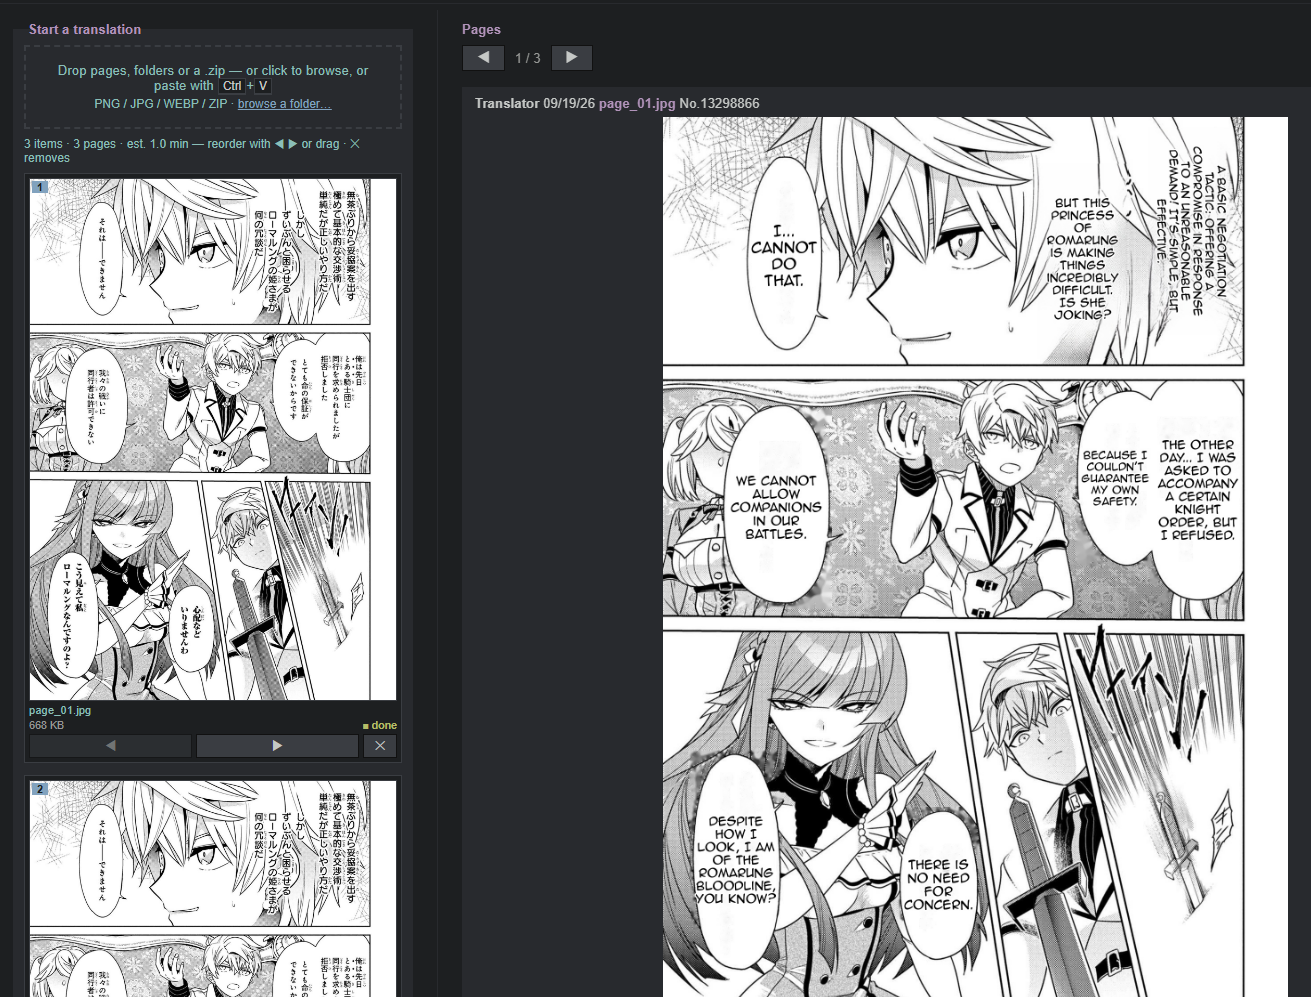
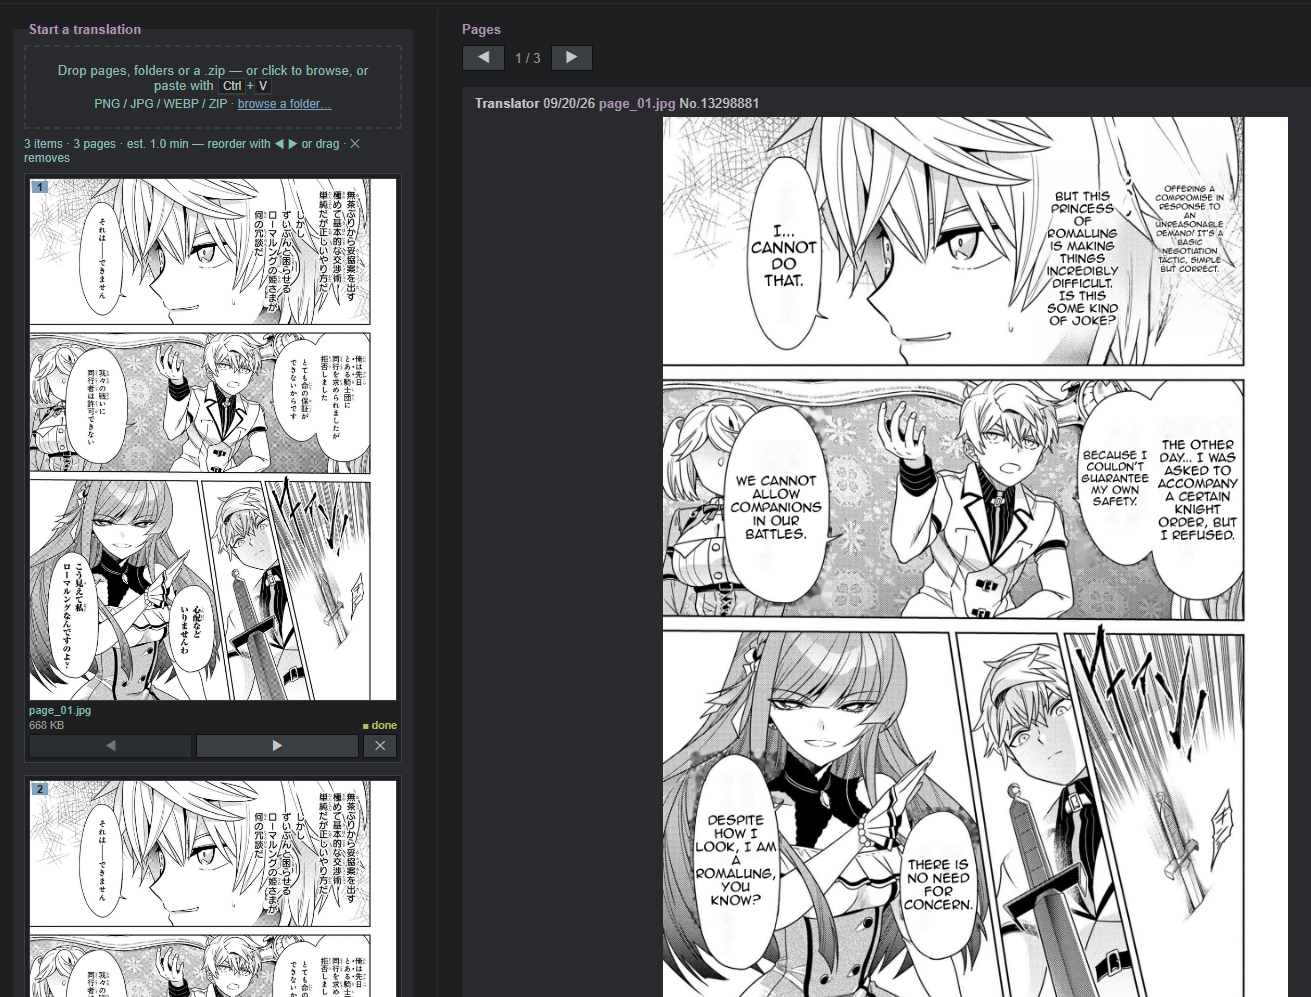
fix(lettering): rotate only truly vertical columns (h>=3w AND 25% size gain); refresh README results shot

Changed region(s): [[0.8848, 0.1555, 0.9458, 0.3109], [0.7933, 0.1866, 0.8543, 0.342], [0.5187, 0.8084, 0.6102, 0.9328]]

diff --git a/MangaTranslator.py b/MangaTranslator.py
@@ -394,13 +394,17 @@ class MangaTranslator:
         else:
             target_width_ratio = 0.82
 
-        # Extreme tall-and-narrow regions (h >= 2.5w) are usually vertical
-        # Japanese columns: laying English out horizontally there collapses
-        # into a tiny hyphenated word-stack. Instead lay the block out in the
+        # Extreme tall-and-narrow regions are usually vertical Japanese
+        # columns: laying English out horizontally there collapses into a
+        # tiny hyphenated word-stack. Instead lay the block out in the
         # swapped dimensions and rotate it 90 degrees clockwise (reads
-        # top-to-bottom) — much larger, legible type. Only used when it
-        # actually beats the horizontal layout, never for regular bubbles.
-        ROTATE_MIN_ASPECT = 2.5
+        # top-to-bottom) — much larger, legible type.
+        # Gated hard on purpose: the box must be REALLY skinny (h >= 3w) AND
+        # the rotated layout must win by a wide margin. Boxes near the old
+        # 2.5 gate (tall narration strips jitter around ~2.5 aspect from run
+        # to run) must never flip normal text sideways.
+        ROTATE_MIN_ASPECT = 3.0
+        ROTATE_MIN_GAIN = 1.25  # rotated size must beat horizontal by 25%+
         rotated_layout = None
         if box_height >= ROTATE_MIN_ASPECT * box_width:
             rot_wrap_width = int(box_height * 0.85)
@@ -457,12 +461,12 @@ class MangaTranslator:
             for size in range(max_size, min_size - 1, -1):
                 wrapped = try_wrap(size, allow_hard_break, allow_hyphen)
                 if wrapped is not None:
-                    if rotated_layout and rotated_layout[0] > size:
+                    if rotated_layout and rotated_layout[0] >= size * ROTATE_MIN_GAIN:
                         return rotated_layout[0], rotated_layout[1], True
                     return size, wrapped, False
 
         # Fallback: minimum size
-        if rotated_layout and rotated_layout[0] > min_size:
+        if rotated_layout and rotated_layout[0] >= min_size * ROTATE_MIN_GAIN:
             return rotated_layout[0], rotated_layout[1], True
         font = self._get_font(min_size)
         wrapped = self._wrap_text_dynamic(
